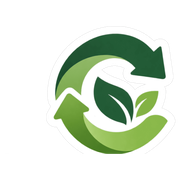
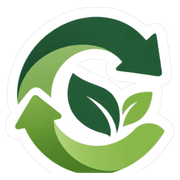
fix(brand): mathematically center 1:1 circular mark and remove letter anti-aliasing bias

diff --git a/src/components/CircuLifeLogo.tsx b/src/components/CircuLifeLogo.tsx
@@ -40,11 +40,11 @@ export function CircuLifeLogo({
     <div className={cn("flex items-center gap-3", className)}>
       <div
         className={cn(
-          "flex items-center justify-center rounded-xl bg-card border border-border/80 shadow-sm transition-transform group-hover:scale-105",
+          "flex items-center justify-center rounded-xl bg-card border border-border/80 shadow-sm transition-transform group-hover:scale-105 p-1.5 overflow-hidden",
           sizeMap[size]
         )}
       >
-        <CircuLifeMark className="h-6 w-6 sm:h-7 sm:w-7" />
+        <CircuLifeMark className="h-full w-full object-contain" />
       </div>
 
       {showWordmark && (
